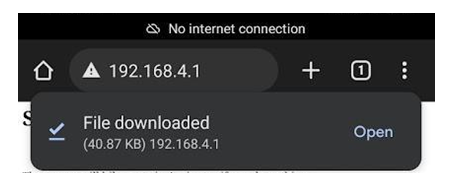
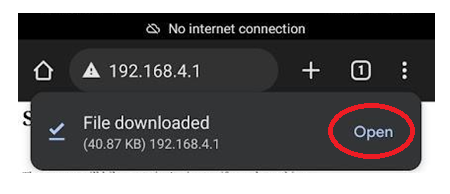
minor edits and some better pictures for front-matter and technology-guide; minor comments in other sections

Changed region(s): [[0.7156, 0.5258, 0.9333, 0.8351]]

diff --git a/technology-guide/wifi-version.md b/technology-guide/wifi-version.md
@@ -4,20 +4,15 @@ You have two boxes - a sensor unit and a hub.  The sensor unit is usually white 
 
 The sensor unit takes the temperature and relative humidity readings and sends them to the hub using a radio link.  The hub then uploads the data to the internet.  To make this work, you need to tell the hub the password for the guest wifi network in your building.
 
-:TODO: add a picture of the hub and sensor unit together.
-<!-- 
-```{image} TODO.jpg
+:TODO: replace picture with one that has the power plug attached
+
+```{image} ../images/sensor-unit-and-hub.jpg
 :alt: sensor unit and hub
 :class: bg-primary mb-1
 :width: 400px
 :align: center
 ```
- -->
 
-```{admonition} Safety
-:class: important
-It's possible for someone who knows what they're doing to find out the wifi password if they steal the hub and then, while they are still on your premises, see what else they can access on your network.  If this worries you, please ask us how to reconfigure your sensor unit to work without an internet connection.
-```
 
 The sensor unit is battery-powered, but the hub has to be plugged using a phone charger.  It uses the older style "micro-USB" connectors like for older Android phones.  Many people have old chargers from previous phones.  If you don't have one with the right connector, but do have one where the cable detaches, micro-USB cables are cheap.  
 
@@ -32,13 +27,26 @@ The sensor unit is battery-powered, but the hub has to be plugged using a phone 
 
 ```{admonition} Overview for technophiles
 
-1.	Plug in the hub unit and turn on the sensor unit.
-2.	Connect your phone/tablet/laptop to the open heathackhub hotspot
-3.	Visit 192.168.4.1 using your browser.
-4.	Select your Wi-Fi network from the list or enter the SSID manually, then enter your Wi-Fi password.
-5.	Reconnect your phone/tablet/laptop to your Wi-Fi and visit the thingspeak.com link printed on the hub unit box. 
-6.	Confirm the setup has been successful by checking for an initial reading of 1°C on the temperature graph.
+1.	Plug in the hub
+2.	Connect your phone/tablet/laptop to the open heathack wifi hotspot
+3.	Visit 192.168.4.1 using your browser
+4.	Enter the SSID and password for the venue's guest wifi network 
+5.  Turn on the sensor unit and check for a blue flashing light on the hub showing the radio connection is working
+5.	Visit your thingspeak.com URL to see data coming in
 ```
 
-
+<!-- Colin's preferred version 
+1. Plug in the hub unit.
+2. Connect your phone/tablet/laptop to the open heathack hotspot
+3. Visit 192.168.4.1 using your browser.
+4. Select your Wi-Fi network from the list or enter the SSID manually, then enter your Wi-Fi password.
+5. Reconnect your phone/tablet/laptop to your Wi-Fi and visit the thingspeak.com link printed on the hub unit box.
+6. Confirm the setup has been successful by checking for an initial reading of 1°C on the temperature graph.
+7. Turn on the sensor unit: it will start transmitting automatically.
+8. For the first two minutes it transmits every 10 seconds and the hub flashes a little LED when it receives the transmittion.
+9. Look in the hole in the hub case and you should see a blue flash every 10 seconds which lets you check you haven't put the sensor out of range.
+10. If positioning takes a while you can restart the sensor for another spell of 10 second transmissions.
+11. The range will be greatest when the aerials are pointing at right angles to the direction of the other unit.
+(we will have an arrow on each box so maybe we word this differently)
+-->
 

diff --git a/front-matter/motivation.md b/front-matter/motivation.md
@@ -13,10 +13,10 @@ This programme assumes your group needs to understand what a net zero future mea
 *(c) حُميد, CC BY-SA 4.0 <https://creativecommons.org/licenses/by-sa/4.0>, via Wikimedia Commons*
 
 
-This programme is not the place to debate whether climate change exists or whether human behaviour has the power to affect its course for good or ill.  It is also not the place to have detailed discussions about climate change and its effects on the planet, although if that is your main interest, you may wish to consider our sister programmes, Climate Conversations and Conversations for Change.  Our programme is about how to get the most benefit out of the energy you put into your buildings and how to have what are difficult discussions about whether that energy use can be supported financially and justified ethically in your place and at this time.   It is based loosely on our experiences in running Carbon Conversations, structured discussion groups about how to achieve reductions in the carbon impacts of our personal lives.  
+This programme is not the place to debate whether climate change exists or whether human behaviour has the power to affect its course for good or ill.  It is also not the place to discuss climate change and its effects on the planet, although if that is your main interest, you may wish to consider our sister programmes, Climate Conversations and Conversations for Change.  Our programme is about how to get the most benefit out of the energy you put into your buildings and how to have what are difficult discussions about whether that energy use can be supported financially and justified ethically in your place and at this time.   It is based loosely on our experiences in running Carbon Conversations, group sessions about how to achieve reductions in the carbon impacts of our personal lives.  
 
 
-Much of the programme isn't technical at all - it's discussion about what your building is for and how it should be used and managed in the future.  For this, towards the end, you'll need to engage with others in your local community.  After all, it's space that serves them.  This kind of conversation will be a new one to many groups, and so the programme is designed to equip you for that, too, by showing you some good ways to engage the people you serve. You should come out of the programme with a plan for your building and evidence that will be useful for securing grant funding if you need it.  
+Much of the programme isn't technical at all - it's about what your building is for and how it should be used and managed in the future.  For this, towards the end, you'll need to engage with others in your local community.  After all, it's space that serves them.  This kind of conversation will be a new one to many groups, and so the programme is designed to equip you for that, too, by showing you some good ways to engage the people you serve. You should come out of the programme with a plan for your building and evidence that will be useful for securing grant funding if you need it.  
 
 ```{admonition} Further reading
 - <a href="https://www.surefoot-effect.com/carbon-conversations-community.html">Carbon Conversations</a>

diff --git a/technology-guide/no-wifi-sequence/step5.md b/technology-guide/no-wifi-sequence/step5.md
@@ -7,7 +7,37 @@
 :width: 400px
 :align: center
 ```
+<!-- :TODO: add a picture of the file list, but without the correct file circled -->
 
-Once you have started the device, you will get a notification that a file has been downloaded it.  Send it to this by email to data@heathack.org.  If you open the file, you may have an option to "share" it, or you can open your email, start a message to us, and attach it to the message.  The file is named "datalog.csv", but there may also be a number if you've downloaded before.  You want the most recent one.
+
+```{image} share-data.png
+:alt: steps to share the data file by email
+:class: bg-primary mb-1
+:width: 400px
+:align: center
+```
+
+You will get a notification that a file has been downloaded. Try to open it.  You may see an error message saying the filetype is not supported, but your phone should allow you to open a list of downloaded files. 
+
+The correct file is named "datalog.csv", possibly followed by a number if you've downloaded data before.  You always want the most recent one.  This is usually the one with the highest number.
+ Select the correct file by holding your finger on it, and then choose "Share" and the icon of the email app you want to use.  Gmail, Mail, and Outlook are common email apps. This will start composing an email message with the data file already attached.  Send the email to  **data@heathack.org**. 
+
+ <!-- If your phone did open the data file, you should be able to share it using the menus at the top of the screen.  The icon for finding this option often looks like three dots. -->
+
+If you can't find the option to share the file with us by email, you can open your email, start a message to us, and attach it to the message.  The file will be wherever your internet downloads go.
+
+<!-- 
+- Press "open" on the notification for the datalog file download.
+    - You may get an error message saying that you cannot open the
+file or that the type is not supported. You should then be directed to
+a "Files" "My files" or "Downloads" app.
+
+- Long press on the " 'datalog.csv' " file to get an option to share
+the file. Press "share"
+
+- Select the app that you use for your emails. This will open a new
+email with the file attached. Send this email to data@heathack.org
+
+>
 
 We hope to process these emails automatically - please don't include any other information in the email.  If you need a human's attention, email help@heathack.org.

diff --git a/session2/local-generation.md b/session2/local-generation.md
@@ -1,1 +1,27 @@
 # Generating energy on your premises
+
+Less important than reducing demand.
+
+## Solar panels
+
+initial thoughts about content: 
+
+* popular for community buildings as a way of showing their values, popular target for donated funds (people like visible outcomes)
+* most useful for buildings that have high daytime power use or a big battery for storage (expensive), but can feed into national grid (needs an inverter, extra cost)
+* in community buildings, usually solar PV to generate electricity, not solar panels that make hot water (although if there's a way to feed some background heat into the building I wonder if that's so stupid, Ian Arbon's arguments about hot water as an energy store)
+* needs a sound roof - can be a problem on old slates, nail sickness and roof has to face a useful direction, not be shaded by other buildings, be the right slant, ... (find a link for assessments)
+* if listed or conservation area, panels might not be allowed if they will be visible from the street or from any important vantage points. 
+* working at height is expensive
+* there are coops that will put solar panels on your roof with modest returns for their members, if you can't afford to do it yourself - or if your building isn't suitable, joining the coop instead is a less visible way of showing your values
+
+Further reading: https://www.churchofengland.org/resources/churchcare/advice-and-guidance-church-buildings/renewable-energy
+
+Further CoE info:
+*	Solar PV guide: https://www.churchofengland.org/media/24954
+*	Recorded webinars: https://www.churchofengland.org/about/environment-and-climate-change/webinars-getting-net-zero-carbon 
+
+
+Funding sources
+*	https://ecochurchsouthwest.org.uk/resources/funding-sources/ - Loans for Solar panels, churches, England only
+*	https://communityenergyengland.org/pages/funding-opportunities-2 - list of funders for green energy, community buildings, England only
+*	https://www.cse.org.uk/local-energy/funding-your-project - short list of trusts, one for Christian churches only, one for charities, schools and community groups and one looking to help poorer communities specifically. UK wide

diff --git a/technology-guide/batteries.md b/technology-guide/batteries.md
@@ -1,17 +1,17 @@
 # Batteries
 
-The sensor unit uses AA lithium batteries.  These are available, for instance, from Energizer.  This is the kind of battery used in things like smoke alarms. They are the same size and shape as normal (alkaline) AA batteries, but should last a year.  It is possible to use alkaline batteries, but their performance will be variable, lasting something between a week and a month.  
-
+The sensor unit uses AA lithium batteries.  These are available, for instance, from Energizer.  This is the kind of battery used in things like smoke alarms. They are the same size and shape as ordinary alkaline AA batteries, but should last a year.  It is possible to use alkaline batteries, but their performance will be variable, lasting something between a week and a month.  
 
 ```{admonition} Safety
 :class: important
 
-* Do not attempt to recharge lithium batteries - these are not the same as lithium-ion like in your phone
+* Do not attempt to recharge lithium batteries - these are not the same as the lithium-ion in your phone
 * Don't leave them in very hot places
 * Don't run battery-operated devices under things where heat can build up
 
 These are the same safety tips as for alkaline batteries, but these batteries store more energy, so it's more important to remember them.
 
-For more information: https://uk.rs-online.com/web/generalDisplay.html?id=ideas-and-advice/aa-batteries-guide
+For more information:
+* <a href="https://uk.rs-online.com/web/generalDisplay.html?id=ideas-and-advice/aa-batteries-guide"> AA battery guide from RS Online</a>
 
 ```

diff --git a/technology-guide/wifi-sequence/check-connection.md b/technology-guide/wifi-sequence/check-connection.md
@@ -8,7 +8,9 @@
 :align: center
 ```
 
-To check that the hub is working, connect to the guest wifi network and use your browser to go to the thingspeak.com address printed on your box.  You will see three very basic graphs - we will produce better ones later.  You should see a recent very low reading (1C and 1%RH).  We use this to know when the connection happens.
+To check that the hub is working, connect to the guest wifi network and use your browser to go to the thingspeak.com address printed on your box.  
 
-You can now leave the sensor unit and hub unattended.  If anyone turns them off, they will start working again when you turn them back on.  You may wish to leave a note on the hub, as cleaners often remove them.
+You will see three very basic graphs - we will produce better ones later.  You should see a recent very low reading (1C and 1%RH).  If you don't see this, your hub didn't connect to the internet correctly.  You should also see some realistic temperature and relative humidity readings.  If you see the low reading and nothing after that, your sensor unit isn't managing to get data to the hub.
+
+You can now leave the sensor unit and hub unattended.  If anyone turns them off, they will start working again when you turn them back on.  You may wish to leave a note at the power socket, as cleaners often turn hubs off and stick them in the lost and found.
 

diff --git a/technology-guide/wifi-sequence/use-hub-gui.md b/technology-guide/wifi-sequence/use-hub-gui.md
@@ -8,8 +8,7 @@
 ```
 You should now see the hub's interface.  Choose "Configure Wifi", and choose the venue's guest wifi network from the list.  If you don't see it, refresh the list by choosing "Scan".  Then enter the wifi password and choose "Save".
 
-Some venues deliberately hide the wifi network - in this case you can type in it's name (SSID).  You may be able to look up the name using a phone you have used on the wifi before or on the back of the router. 
+Some venues deliberately hide the wifi network - in this case you can type in its name (SSID).  You may be able to look up the name using a phone you have used on the wifi before or find it on the back of the router. 
 
-If heathackhub disappears from your list of connections, the hub is now successfully connected to the internet.   Otherwise you may have entered the wrong password - please try again.  
+If after you save the password, heathack disappears from your list of connections, the hub is now successfully connected to the internet.   Otherwise you may have entered the wrong password - please try again.  
 
-Now turn on the sensor unit.  The hub has a blue LED just visible through the case that will flash every time it receives data from the sensor unit.  This will happen every 10 seconds for 2 minutes so that you can check it is working, and then less frequently.

diff --git a/technology-guide/no-wifi-sequence/step4.md b/technology-guide/no-wifi-sequence/step4.md
@@ -1,7 +1,7 @@
-# Download the data and restart
+# Name the location, download the data and restart
 
 
-```{image} sensor-gui.png
+```{image} sensor-gui.jpg
 :alt: type URL
 :class: bg-primary mb-1
 :width: 400px
@@ -9,9 +9,10 @@
 ```
 You should now see the sensor unit's interface.  For the location, enter a word or two that will remind you where you've left the unit; for instance "main-hall".  You can use hyphens and underscores if you wish, but avoid spaces.  Please try to use the same description for the same location every time.
 
-<! -- Enter the location of your device using the three letter code for your site plus a word that will remind you where it is - for instance, "ccm-hall" for the hall at venue "ccm".  You can use hyphens and underscores if you wish, but avoid spaces.
+<!-- Enter the location of your device using the three letter code for your site plus a word that will remind you where it is - for instance, "ccm-hall" for the hall at venue "ccm".  You can use hyphens and underscores if you wish, but avoid spaces.
 CK says the code is unnecessary, we will use MAC address as a key.
 -->
 
 When you press "download data and start", your phone will download a file containing the data and then start logging.  You have four minutes to do this but the battery will last longer if you are faster.
 
+ 

diff --git a/session1/intro.md b/session1/intro.md
@@ -1,6 +1,6 @@
  # Session One - Why Our Buildings are Hard to Heat
 
-This week is all about two things:  discussing what you want to achieve by taking part in the programme, and learning some very basic concepts that can help you understand how heating systems work and why some community buildings are so hard to heat.  
+This week is all about two things:  starting to think about what you want to achieve by taking part in the programme, and learning some very basic concepts that can help you understand how heating systems work and why some community buildings are so hard to heat.  
 
 In this week's exercise, you'll be taking pictures or videos of your heating system and the parts of your building where most of the heat gets lost, as part of a profile you will be building up that describes your buildings and your aspirations for it.  Every week, you'll add something new to this profile, and at the end, you should find it useful for discussions with your local community and with the professionals who serve you.  
 

diff --git a/technology-guide/wifi-sequence/turn-on-sensor-unit.md b/technology-guide/wifi-sequence/turn-on-sensor-unit.md
@@ -1,3 +1,15 @@
 # Turn on sensor unit
 
-Turn on the sensor unit.  When it is first turned on, it sends data to the hub every 10 seconds for 2 minutes.  This is to make it easier to check for the blue flash and see that it is working.  After that, readings will be sent every 5 minutes.
+```{image} ../../images/Sensor2WiFiBoxed-1024x768.jpg
+:alt: sensor unit
+:class: bg-primary mb-1
+:width: 400px
+:align: center
+```
+
+Now turn on the sensor unit.  
+
+The faint blue LED on the hub will flash every time it receives data from the sensor unit.  This is useful for checking that the radio on the sensor unit can reach the hub.
+When the sensor unit is first turned on, it sends data to the hub every 10 seconds for 2 minutes.   If you can't see it flash even in low light levels, make sure the arrows on the cases point towards each other and if you have to, move them closer together.
+
+After two minutes, the sensor sends readings less frequently, usually every five minutes.

diff --git a/technology-guide/wifi-sequence/connect-base-station.md b/technology-guide/wifi-sequence/connect-base-station.md
@@ -8,5 +8,8 @@
 :align: center
 ```
 
- Decide where to place the sensor unit, and plug in the hub not too far away in a socket that people don't need very often. On a phone or tablet, then find your wifi settings. You can access them through the settings icon (a gear) on your home screen or by searching.
+ Decide where to place the sensor unit, and plug in the hub not too far away in a socket that people don't need very often.   The hub has a blue LED just visible through the case that will flash once in case you need confirmation that the power is working. 
+ 
+ On a phone or tablet, then find your wifi settings. You can access them through the settings icon (a gear) on your home screen or by searching.
 
+In larger spaces, the radio works best if the arrow on the outside of the sensor unit points towards the hub.

diff --git a/technology-guide/no-wifi-sequence/step2.md b/technology-guide/no-wifi-sequence/step2.md
@@ -7,7 +7,6 @@
 :align: center
 ```
 
-If the sensor unit is already on, turn it off, wait ten seconds, then turn it on again.  You then 
-have one minute to connect to the "engineer" wifi hotspot that will appear.  The password is "heathack".
+If the sensor unit is already on, turn it off, wait ten seconds, then turn it on again.  A wifi hotspot named "engineer" will appear.  Connect to it using the password "heathack".  Ignore any warnings about internet availability - connect to the hotspot anyway.
 
-Ignore any warnings about internet availability - connect to the hotspot anyway.
+You have around one minute to do this step and the next one but if you take longer, you can start again.  
